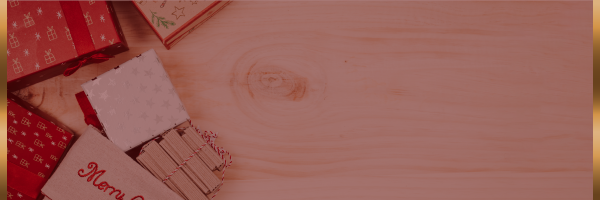
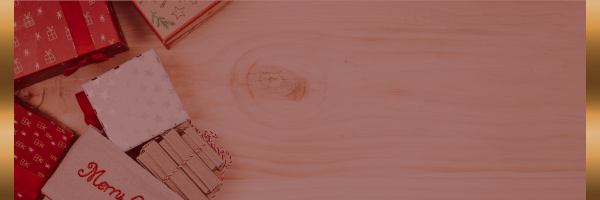
se subio animacion optimizada

Changed region(s): [[0.96, 0.0, 0.99, 1.0], [0.0, 0.0, 0.03, 1.0]]

diff --git a/index.html b/index.html
@@ -106,7 +106,7 @@
                 "
               >
                 <img
-                  src="https://gitbertod.github.io/sigma-email-assets/assets/animacionSigma600.gif"
+                  src="https://gitbertod.github.io/sigma-email-assets/assets/animacionSigmaOptim.gif"
                   style="
                     display: block;
                     max-width: 600px;
